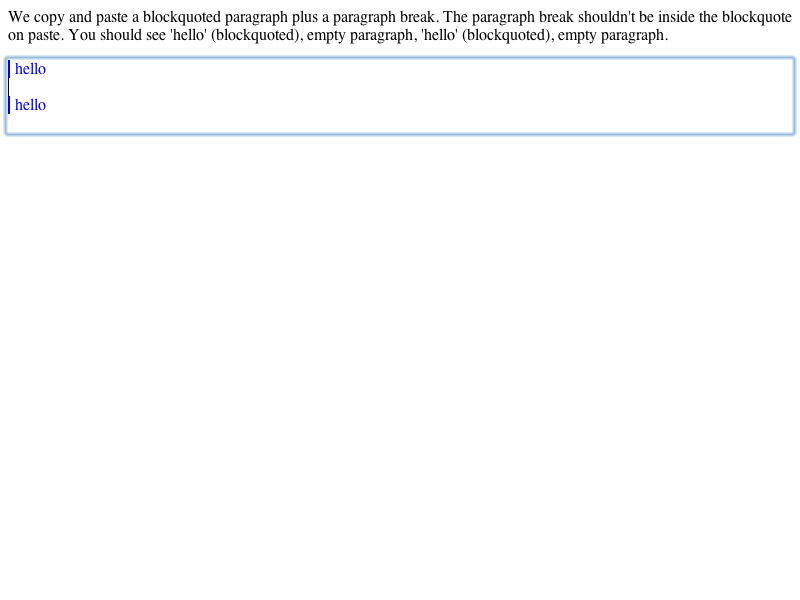
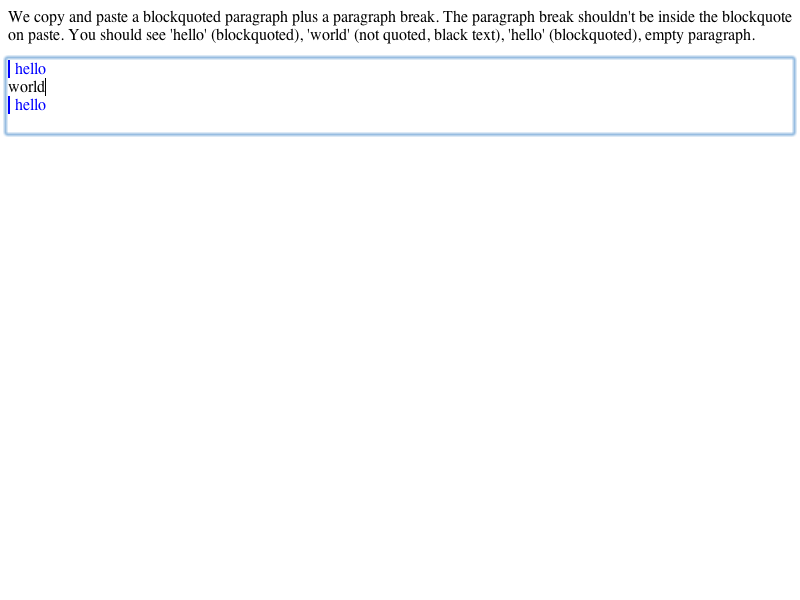
WebCore:
2009-06-15  Adele Peterson  <adele@apple.com>

        Reviewed by Darin Adler.

        Fix for <rdar://problem/6907228> Pasting a paragraph as quotation leaves you typing in blue instead of black; repros

        * editing/InsertParagraphSeparatorCommand.cpp: (WebCore::InsertParagraphSeparatorCommand::doApply):
        When inserting a newline after the blockquote, we don't want to apply the original style after the insertion.

LayoutTests:

2009-06-15  Adele Peterson  <adele@apple.com>

        Reviewed by Darin Adler.

        Updating test for:
        <rdar://problem/6907228> Pasting a paragraph as quotation leaves you typing in blue instead of black; repros

        This test case covered inserting a newline after a blockquote, but outside of the blockquote.  I added some 
        text insertion to verify that the newline doesn't get any old styles copied from the blockquote.

        * editing/pasteboard/5368833.html:
        * platform/mac/editing/pasteboard/5368833-expected.checksum:
        * platform/mac/editing/pasteboard/5368833-expected.png:
        * platform/mac/editing/pasteboard/5368833-expected.txt:

git-svn-id: https://svn.webkit.org/repository/webkit/trunk@44712 268f45cc-cd09-0410-ab3c-d52691b4dbfc

Changed region(s): [[0.375, 0.03, 0.9375, 0.09], [0.0, 0.12, 0.0625, 0.15]]

diff --git a/LayoutTests/editing/pasteboard/5368833.html b/LayoutTests/editing/pasteboard/5368833.html
@@ -7,7 +7,8 @@ blockquote {
 }
 </style>
 
-<p>We copy and paste a blockquoted paragraph plus a paragraph break.  The paragraph break shouldn't be inside the blockquote on paste.  You should see 'hello' (blockquoted), empty paragraph, 'hello' (blockquoted), empty paragraph.</p>
+<p>We copy and paste a blockquoted paragraph plus a paragraph break.  The paragraph break shouldn't be inside the blockquote on paste.  
+You should see 'hello' (blockquoted), 'world' (not quoted, black text), 'hello' (blockquoted), empty paragraph.</p>
 <div id="div" contenteditable="true"><br><blockquote id="blockquote" type="cite">hello<br></blockquote><br></div>
 
 <script>
@@ -18,4 +19,5 @@ sel.setBaseAndExtent(blockquote, 0, div, 2);
 document.execCommand("Copy");
 sel.setPosition(div, 0);
 document.execCommand("Paste");
+document.execCommand("InsertHTML", false, "world");
 </script>

diff --git a/WebCore/editing/InsertParagraphSeparatorCommand.cpp b/WebCore/editing/InsertParagraphSeparatorCommand.cpp
@@ -170,6 +170,7 @@ void InsertParagraphSeparatorCommand::doApply()
     // Handle case when position is in the last visible position in its block,
     // including when the block is empty. 
     if (isLastInBlock) {
+        bool shouldApplyStyleAfterInsertion = true;
         if (nestNewBlock) {
             if (isFirstInBlock && !lineBreakExistsAtVisiblePosition(visiblePos)) {
                 // The block is empty.  Create an empty block to
@@ -182,13 +183,18 @@ void InsertParagraphSeparatorCommand::doApply()
         } else {
             // We can get here if we pasted a copied portion of a blockquote with a newline at the end and are trying to paste it
             // into an unquoted area. We then don't want the newline within the blockquote or else it will also be quoted.
-            Node* highestBlockquote = highestEnclosingNodeOfType(canonicalPos, &isMailBlockquote);
-            insertNodeAfter(blockToInsert, highestBlockquote ? highestBlockquote : startBlock);
+            if (Node* highestBlockquote = highestEnclosingNodeOfType(canonicalPos, &isMailBlockquote)) {
+                startBlock = static_cast<Element*>(highestBlockquote);
+                // When inserting the newline after the blockquote, we don't want to apply the original style after the insertion
+                shouldApplyStyleAfterInsertion = false;
+            }
+            insertNodeAfter(blockToInsert, startBlock);
         }
 
         appendBlockPlaceholder(blockToInsert);
         setEndingSelection(VisibleSelection(Position(blockToInsert.get(), 0), DOWNSTREAM));
-        applyStyleAfterInsertion(startBlock);
+        if (shouldApplyStyleAfterInsertion)
+            applyStyleAfterInsertion(startBlock);
         return;
     }
 
